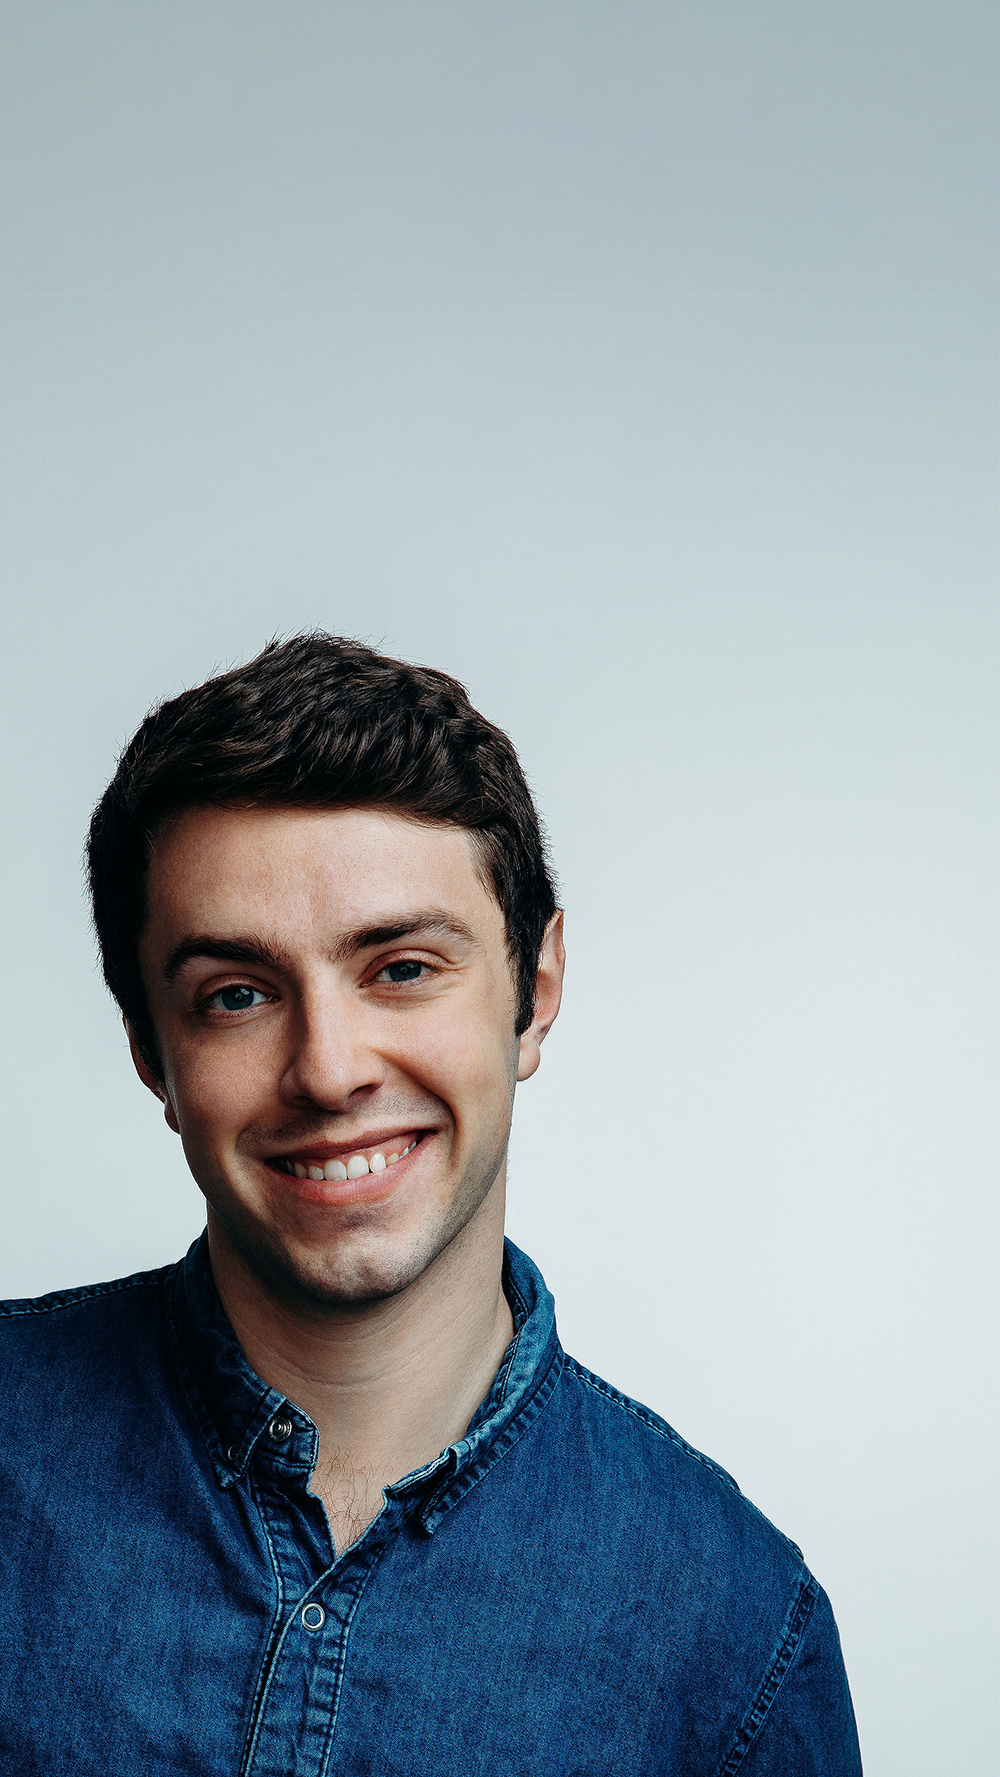
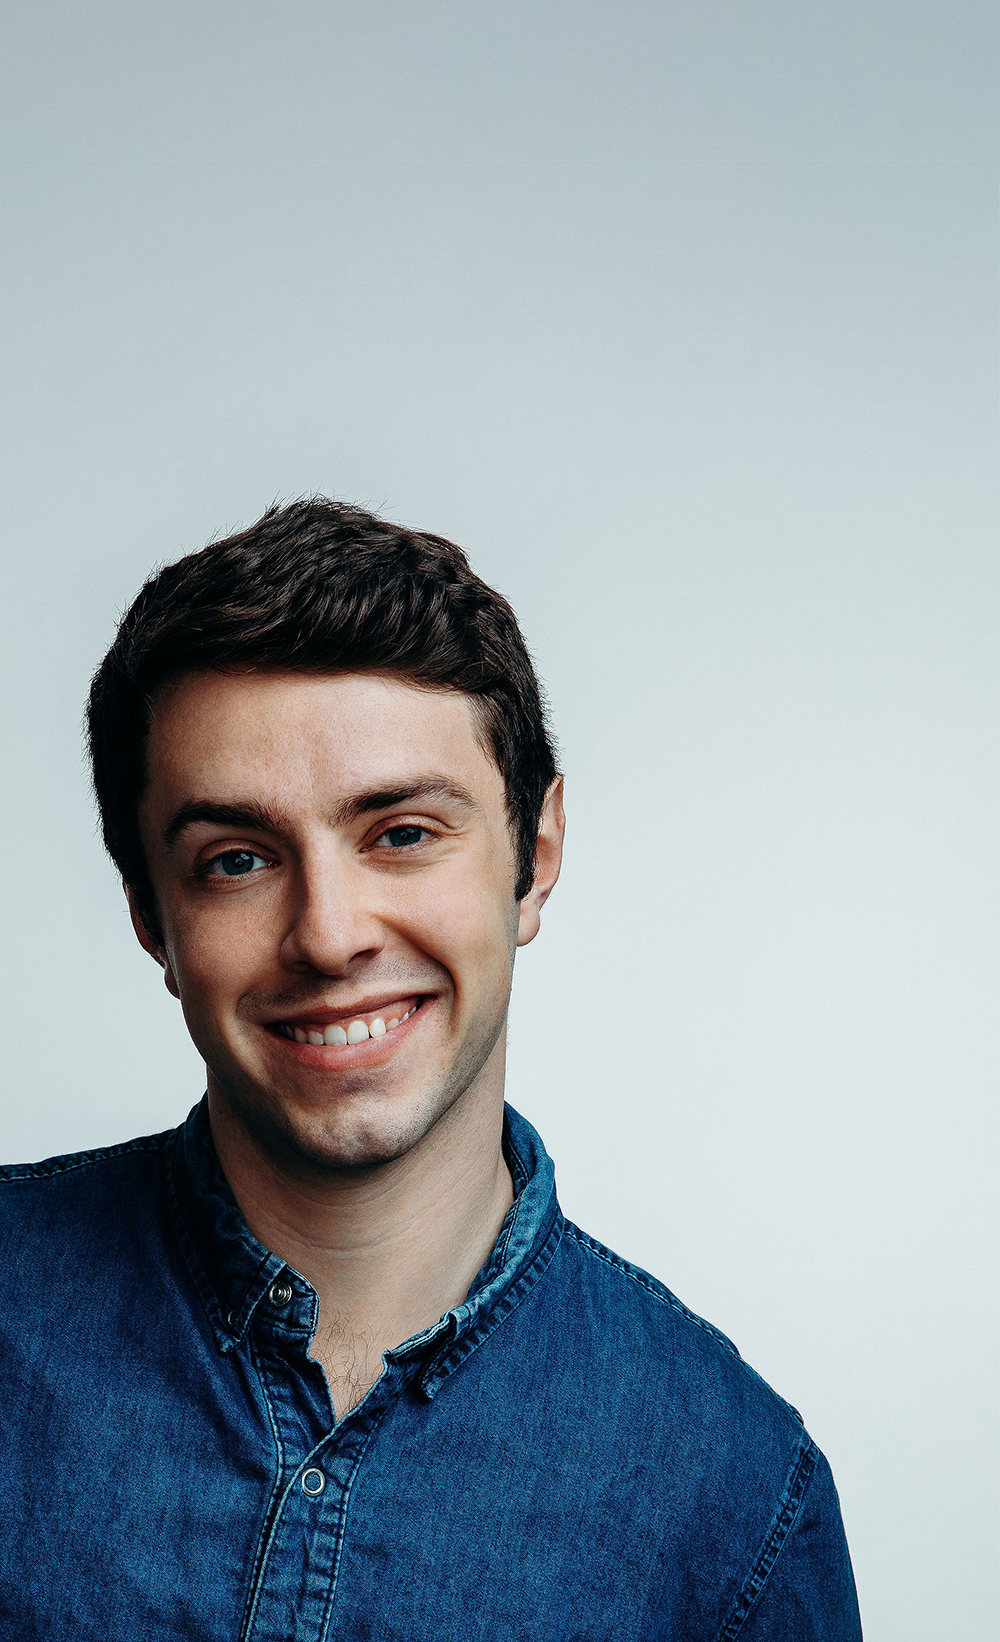
Fix images

Changed region(s): [[0.0, 0.2795, 0.868, 1.0]]

diff --git a/src/components/image.js b/src/components/image.js
@@ -16,14 +16,14 @@ import MediaQuery from "react-responsive";
 
 const ImageQuery = graphql`
     query {
-        heroImage: file(relativePath: { eq: "headshot-white-2.jpg" }) {
+        heroImage: file(relativePath: { eq: "headshot-white.jpg" }) {
             childImageSharp {
                 fluid(maxWidth: 2000) {
                     ...GatsbyImageSharpFluid
                 }
             }
         }
-        heroImageSmall: file(relativePath: { eq: "headshot-white-small-2.jpg" }) {
+        heroImageSmall: file(relativePath: { eq: "headshot-white-small.jpg" }) {
             childImageSharp {
                 fluid(maxWidth: 800) {
                     ...GatsbyImageSharpFluid
